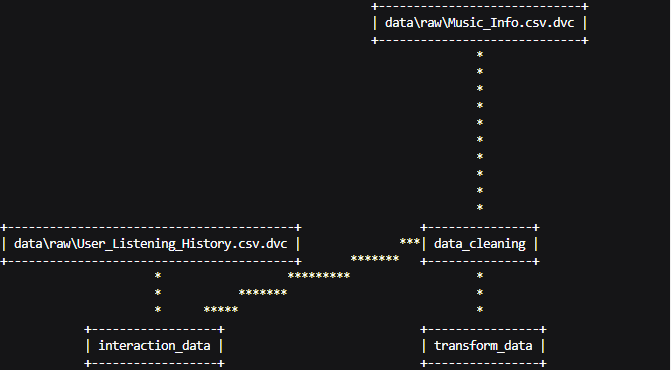
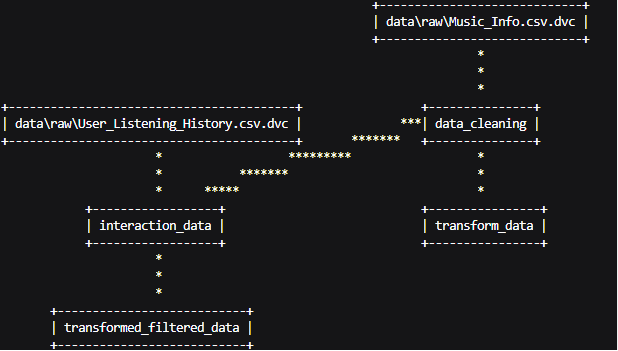
Updated README

diff --git a/README.md b/README.md
@@ -4,13 +4,15 @@
   <img src="https://img.shields.io/badge/scikit--learn-1.8-F7931E?style=for-the-badge&logo=scikitlearn&logoColor=white" />
   <img src="https://img.shields.io/badge/DVC-3.67-945DD6?style=for-the-badge&logo=dvc&logoColor=white" />
   <img src="https://img.shields.io/badge/Dask-Parallel-FDA061?style=for-the-badge&logo=dask&logoColor=white" />
-  <img src="https://img.shields.io/badge/AWS-Deployment-FF9900?style=for-the-badge&logo=amazonaws&logoColor=white" />
+  <img src="https://img.shields.io/badge/Docker-Container-2496ED?style=for-the-badge&logo=docker&logoColor=white" />
+  <img src="https://img.shields.io/badge/GitHub_Actions-CI/CD-2088FF?style=for-the-badge&logo=githubactions&logoColor=white" />
+  <img src="https://img.shields.io/badge/AWS_ECR-Deployment-FF9900?style=for-the-badge&logo=amazonaws&logoColor=white" />
 </p>
 
 <h1 align="center">🎵 Hybrid Music Recommendation System</h1>
 
 <p align="center">
-  <b>An end-to-end, production-grade music recommendation engine combining Content-Based Filtering, Collaborative Filtering — built on ~50K songs and ~9.7M user interaction records.</b>
+  <b>An end-to-end, production-grade music recommendation engine combining Content-Based Filtering, Collaborative Filtering, and a Hybrid Recommender — built on ~50K songs and ~9.7M user interaction records, containerized with Docker, and deployed via CI/CD to AWS ECR.</b>
 </p>
 
 <p align="center">
@@ -19,6 +21,8 @@
   <a href="#-tech-stack">Tech Stack</a> •
   <a href="#-project-structure">Project Structure</a> •
   <a href="#-dvc-pipeline">DVC Pipeline</a> •
+  <a href="#-cicd-pipeline">CI/CD Pipeline</a> •
+  <a href="#-docker">Docker</a> •
   <a href="#-getting-started">Getting Started</a> •
   <a href="#-roadmap">Roadmap</a>
 </p>
@@ -33,41 +37,38 @@
                               │   (app.py – cached)   │
                               └──────────┬────────────┘
                                          │
-                          ┌──────────────┴──────────────┐
-                          ▼                              ▼
-               ┌──────────────────┐          ┌──────────────────────┐
-               │  Content-Based   │          │    Collaborative     │
-               │    Filtering     │          │      Filtering       │
-               │ (NearestNeighbors│          │  (Cosine Similarity  │
-               │  + Cosine Metric)│          │  on Sparse Matrices) │
-               └────────┬─────────┘          └─────────┬────────────┘
-                        │                              │
-                        ▼                              ▼
-               ┌──────────────────┐          ┌──────────────────────┐
-               │  ColumnTransformer│         │   Dask DataFrame     │
-               │  • CountEncoder  │          │   Chunked Processing │
-               │  • OneHotEncoder │          │   of 9.7M rows       │
-               │  • TF-IDF        │          │         │             │
-               │  • StandardScaler│          │         ▼             │
-               │  • MinMaxScaler  │          │  Sparse Interaction  │
-               └────────┬─────────┘          │  Matrix (CSR)        │
-                        │                    └──────────────────────┘
-                        ▼
-               ┌──────────────────┐
-               │  Transformed     │
-               │  Sparse Matrix   │
-               │  (.npz)          │
-               └──────────────────┘
+                      ┌──────────────────┼──────────────────┐
+                      ▼                  ▼                  ▼
+           ┌──────────────────┐ ┌──────────────────┐ ┌──────────────────┐
+           │  Content-Based   │ │   Collaborative  │ │     Hybrid       │
+           │    Filtering     │ │     Filtering    │ │   Recommender    │
+           │ (NearestNeighbors│ │ Cosine Similarity│ │ (Weighted Sum of │
+           │  + Cosine Metric)│ │ on Sparse Matrix)│ │  CBF + CF Scores)│
+           └────────┬─────────┘ └───────┬──────────┘ └────────┬─────────┘
+                    │                   │                     │
+                    ▼                   ▼                     ▼
+           ┌──────────────────┐ ┌──────────────────┐ ┌───────────────────────┐
+           │ ColumnTransformer│ │  Dask DataFrame  │ │ Normalized CBF +      │
+           │ • CountEncoder   │ │Chunked Processing│ │ CF similarity scores  │
+           │ • OneHotEncoder  │ │  of 9.7M rows    │ │ with user-controlled  │
+           │ • TF-IDF         │ │        │         │ │ diversity weight      │
+           │ • StandardScaler │ │        ▼         │ └───────────────────────┘
+           │ • MinMaxScaler   │ │Sparse Interaction│
+           └────────┬─────────┘ │Matrix (CSR)      │
+                    │           └──────────────────┘
+                    ▼
+           ┌──────────────────┐
+           │  Transformed     │
+           │  Sparse Matrix   │
+           │  (.npz)          │
+           └──────────────────┘
+
+  ┌──────────────────────────────────────────────────────────────┐
+  │                    CI/CD Pipeline                            │
+  │  GitHub Actions → Test → Docker Build → Push to AWS ECR      │
+  └──────────────────────────────────────────────────────────────┘
 ```
 
-The system follows a **two-phase design**:
-
-| Phase | Approach | Status |
-|-------|----------|--------|
-| **Phase 1** | Content-Based + Collaborative Filtering → Hybrid (weighted sum) | 🔨 In Progress |
-| **Phase 2** | Neural Collaborative Filtering (NCF) | 📋 Planned |
-
----
 
 ## ✨ Features
 
@@ -75,21 +76,20 @@ The system follows a **two-phase design**:
 - **Exploratory Data Analysis** — Deep analysis of the Spotify dataset with rich visualizations (distributions, correlations, feature exploration)
 - **Content-Based Filtering** — Recommends songs based on audio features, artist, tags, and metadata using a K-Nearest Neighbors model with cosine distance
 - **Collaborative Filtering** — Recommends songs based on user listening patterns using cosine similarity on a user-track interaction matrix
-- **Streamlit Web App** — Interactive UI with song & artist input, selectable filtering method, configurable number of recommendations (5/10/15/20), and embedded Spotify audio previews
+- **Hybrid Recommender System** — Combines content-based and collaborative filtering scores using a weighted sum approach with min-max normalized similarity scores
+- **Cold-Start Handling** — Automatically Fallback to Content-Based Filtering for new songs with no interaction history
+- **Diversity Slider** — Interactive UI slider (1–10) that lets users control the balance between content-based and collaborative filtering in the hybrid recommender — lower values favor content similarity, higher values favor collaborative (user behavior) similarity
+- **Case-Insensitive Input** — Song and artist names are consistently normalized (stripped & lowercased) across all filtering methods, ensuring robust lookups regardless of input casing
+- **Streamlit Web App** — Interactive UI with song & artist input, selectable filtering method (Content-Based / Collaborative / Hybrid), configurable number of recommendations (5/10/15/20), diversity control, and embedded Spotify audio previews
 - **Efficient Caching** — `@st.cache_data` and `@st.cache_resource` decorators to eliminate redundant data loading across Streamlit reruns
 - **Large-Scale Data Processing** — Dask-based chunked processing of the 9.7M-row `User_Listening_History.csv` (~575 MB) to handle memory constraints
 - **Sparse Matrix Representations** — Interaction matrices and transformed feature matrices stored as `scipy.sparse` CSR matrices for memory-efficient computation
-- **DVC Pipeline** — Reproducible, versioned 3-stage ML pipeline with full dependency tracking
+- **DVC Pipeline** — Reproducible, versioned **4-stage** ML pipeline with full dependency tracking
+- **Remote DVC Storage** — DVC data tracked and stored on **AWS S3** for remote team collaboration
 - **Data Version Control** — Raw datasets (`Music_Info.csv`, `User_Listening_History.csv`) tracked via `.dvc` files, with data git-ignored
-
-### Upcoming
-- **Hybrid Recommender** — Weighted combination of content-based and collaborative scores
-- **Cold-Start Handling** — Fallback strategy for new users/songs with no interaction history
-- **CI/CD Pipeline** — Automated testing and deployment
-- **Dockerization** — Containerized application for consistent environments
-- **Remote DVC Storage** — S3-backed data versioning for team collaboration
-- **AWS Deployment** — Blue-Green deployment strategy for zero-downtime releases
-- **Neural Collaborative Filtering (Phase 2)** — Deep learning–based recommendation using learned embeddings
+- **Dockerization** — Fully containerized application using a Python 3.13.5 base image, exposing port 8000 for consistent deployment across environments
+- **CI/CD Pipeline** — GitHub Actions workflow with a CI job (code checkout, dependency install, DVC pull, app launch, pytest) and a CD job (Docker build & push to AWS ECR)
+- **Automated Testing** — Pytest-based smoke test (`tests/test_app.py`) that validates the Streamlit app loads successfully (HTTP 200)
 
 ---
 
@@ -97,16 +97,19 @@ The system follows a **two-phase design**:
 
 | Category | Technologies |
 |----------|-------------|
-| **Language** | Python 3.10+ |
+| **Language** | Python 3.13.5 |
 | **ML / Data Science** | scikit-learn, SciPy, NumPy, Pandas, category_encoders |
 | **Large-Scale Processing** | Dask (parallel DataFrame operations for 9.7M rows) |
 | **Feature Engineering** | TF-IDF Vectorizer, OneHotEncoder, CountEncoder, StandardScaler, MinMaxScaler |
 | **Similarity / Model** | NearestNeighbors (brute-force cosine), Cosine Similarity |
 | **Visualization** | Matplotlib, Seaborn (EDA notebooks) |
 | **Web App** | Streamlit |
-| **Pipeline & Versioning** | DVC (Data Version Control) |
+| **Pipeline & Versioning** | DVC (Data Version Control) with AWS S3 remote storage |
+| **Containerization** | Docker (Python 3.13.5 base image) |
+| **CI/CD** | GitHub Actions (CI: test suite, CD: Docker build → AWS ECR push) |
+| **Cloud** | AWS (S3 for DVC storage, ECR for container registry) |
+| **Testing** | Pytest, Requests |
 | **Serialization** | Joblib (models & transformers), SciPy npz (sparse matrices), NumPy npy (arrays) |
-| **Planned** | Docker, GitHub Actions (CI/CD), AWS (EC2/ECS, S3), Neural Collaborative Filtering |
 
 ---
 
@@ -121,7 +124,16 @@ hybrid-recommender-system/
 │   ├── __init__.py
 │   ├── data_cleaning.py              # Raw data cleaning → cleaned_music_data.csv
 │   ├── content_based_filtering.py    # ColumnTransformer training, NearestNeighbors model
-│   └── collaborative_filtering.py    # Dask-based interaction matrix, cosine similarity CF
+│   ├── collaborative_filtering.py    # Dask-based interaction matrix, cosine similarity CF
+│   ├── hybrid_recommendation.py      # Hybrid recommender — weighted CBF + CF scores
+│   └── transform_filtered_data.py    # Transforms filtered collaborative data for hybrid recommender
+│
+├── tests/
+│   └── test_app.py                   # Smoke test — validates Streamlit app loads (HTTP 200)
+│
+├── .github/
+│   └── workflows/
+│       └── ci.yaml                   # CI/CD pipeline (GitHub Actions → AWS ECR)
 │
 ├── notebook/
 │   ├── EDA_Spotify_Dataset.ipynb             # Exploratory Data Analysis
@@ -139,18 +151,23 @@ hybrid-recommender-system/
 │       ├── transformed_data.npz        # Sparse feature matrix for CBF (4.5 MB)
 │       ├── collab_filtered_data.csv    # Songs filtered to those in user history (8.3 MB)
 │       ├── interaction_matrix.npz      # Sparse user-track interaction matrix (32.3 MB)
-│       └── track_ids.npy               # Ordered track ID array for CF (640 KB)
+│       ├── track_ids.npy               # Ordered track ID array for CF (640 KB)
+│       └── transformed_hybrid_data.npz # Sparse feature matrix for hybrid recommender (2.7 MB)
 │
 ├── models/
 │   └── nearest_neighbor_cbf.joblib     # Trained NearestNeighbors model (11.1 MB)
 │
-├── transformer.joblib                  # Trained ColumnTransformer (135 KB)
+├── assets/
+│   └── pipeline.png                    # DVC pipeline visualization
 │
-├── dvc.yaml                            # DVC pipeline definition (3 stages)
+├── Dockerfile                          # Container definition (Python 3.13.5, port 8000)
+├── transformer.joblib                  # Trained ColumnTransformer (135 KB)
+├── dvc.yaml                            # DVC pipeline definition (4 stages)
 ├── dvc.lock                            # Locked pipeline state with hashes
 ├── .dvcignore                          # DVC ignore patterns
 ├── .gitignore                          # Git ignore (data, models, artifacts)
-├── requirements.txt                    # Pinned Python dependencies
+├── requirements.txt                    # Production Python dependencies
+├── requirements-dev.txt                # Development Python dependencies (includes DVC, pytest, etc.)
 └── README.md                           # ← You are here
 ```
 
@@ -158,9 +175,9 @@ hybrid-recommender-system/
 
 ## 🔄 DVC Pipeline
 
-The ML pipeline is managed by DVC with **3 stages** and full dependency tracking:
+The ML pipeline is managed by DVC with **4 stages** and full dependency tracking:
 
-![Alt text](assets/pipeline.png)
+![DVC Pipeline Visualization](assets/pipeline.png)
 
 Reproduce the entire pipeline with:
 ```bash
@@ -181,13 +198,72 @@ dvc repro
    - **Standard Scaling** on `duration_ms`, `loudness`, `tempo`
    - **Min-Max Scaling** on `danceability`, `energy`, `speechiness`, `acousticness`, `instrumentalness`, `liveness`, `valence`
 3. **Model Training** — A `NearestNeighbors` model with cosine distance (`algorithm='brute'`) is fitted on the sparse transformed matrix
-4. **Recommendation** — Given a (song, artist) pair, the model finds the K+1(which includes the current song) nearest neighbors and returns the top-K similar songs
+4. **Recommendation** — Given a (song, artist) pair, the model finds the K+1 (which includes the current song) nearest neighbors and returns the top-K similar songs
 
 ### Collaborative Filtering
 
 1. **Large-Scale Ingestion** — The 9.7M-row `User_Listening_History.csv` (~575 MB) is loaded using **Dask DataFrames** for memory-efficient, chunk-based parallel processing
 2. **Interaction Matrix** — User-track interactions (play counts) are aggregated and stored as a `scipy.sparse.csr_matrix` for memory efficiency
 3. **Recommendation** — Given a song, its interaction vector is compared against all other tracks using cosine similarity, and the top-K most similar tracks are returned
+
+### Hybrid Recommender System
+
+1. **Score Computation** — For a given (song, artist) pair, both content-based similarity scores (cosine similarity on the transformed feature matrix) and collaborative filtering similarity scores (cosine similarity on the interaction matrix) are computed independently
+2. **Min-Max Normalization** — Both score vectors are normalized to [0, 1] range to ensure fair comparison regardless of their original scales
+3. **Weighted Combination** — The final score is computed as: `hybrid_score = w_cbf × content_score + w_cf × collaborative_score`, where the weights are controlled by the user via the **Diversity Slider** in the UI
+4. **Diversity Control** — The slider ranges from 1 (favor content similarity — songs with similar audio features) to 10 (favor collaborative similarity — songs that users with similar taste also listen to)
+5. **Recommendation** — The top-K songs with the highest hybrid scores are returned, ordered by relevance
+
+---
+
+## 🚀 CI/CD Pipeline
+
+The project uses **GitHub Actions** with a two-job workflow:
+
+### CI (Continuous Integration)
+1. **Code Checkout** — Pulls the latest code from the `master` branch
+2. **Python Setup** — Configures Python 3.13.5 with pip caching
+3. **Dependency Installation** — Installs all development dependencies from `requirements-dev.txt`
+4. **AWS Credentials** — Configures AWS credentials (via GitHub Secrets) for DVC S3 access
+5. **DVC Pull** — Pulls data and model artifacts from the remote S3 storage
+6. **App Launch** — Starts the Streamlit app in the background on port 8000
+7. **Test Execution** — Runs `pytest tests/test_app.py` to validate the app loads (HTTP 200)
+8. **Cleanup** — Stops the Streamlit process
+
+### CD (Continuous Deployment)
+1. **DVC Pull** — Pulls the latest data artifacts from S3
+2. **ECR Login** — Authenticates with AWS Elastic Container Registry
+3. **Docker Build & Push** — Builds the Docker image and pushes it to AWS ECR with the `latest` tag
+
+The CD job runs **only after CI passes**, ensuring only tested code is deployed.
+
+---
+
+## 🐳 Docker
+
+The application is fully containerized for consistent deployment:
+
+```dockerfile
+FROM python:3.13.5
+WORKDIR /app/
+COPY requirements.txt .
+RUN pip install --no-cache-dir -r requirements.txt
+# Copies models, processed data, source code, and app entrypoint
+EXPOSE 8000
+CMD ["streamlit", "run", "app.py", "--server.port", "8000"]
+```
+
+### Run Locally with Docker
+
+```bash
+# Build the image
+docker build -t hybrid-recommender .
+
+# Run the container
+docker run -p 8000:8000 hybrid-recommender
+```
+
+Then open `http://localhost:8000` in your browser.
 
 ---
 
@@ -215,7 +291,7 @@ source venv/bin/activate
 # 3. Install dependencies
 pip install -r requirements.txt
 
-# 4. Pull data with DVC (currently local storage — S3 remote coming soon)
+# 4. Pull data with DVC (uses AWS S3 remote storage)
 dvc pull
 
 # 5. Reproduce the pipeline (optional — run if data/models are stale)
@@ -229,9 +305,12 @@ streamlit run app.py
 
 1. Open the Streamlit app in your browser (default: `http://localhost:8501`)
 2. Enter a **song name** and **artist name**
-3. Select the filtering method: **Content-Based** or **Collaborative**
+3. Select the filtering method: **Content-Based**, **Collaborative**, or **Hybrid Recommender System**
 4. Choose how many recommendations you want (5 / 10 / 15 / 20)
-5. Click **Get Recommendation** — enjoy the results with embedded Spotify audio previews 🎧
+5. Adjust the **Diversity Slider** (available for Collaborative & Hybrid modes) to control the recommendation balance
+6. Click **Get Recommendation** — enjoy the results with embedded Spotify audio previews 🎧
+
+> **Note:** If a song only exists in the content-based dataset (not in user listening history), only Content-Based Filtering will be available. Collaborative and Hybrid modes require the song to be present in the user interaction data.
 
 ---
 
@@ -252,28 +331,24 @@ streamlit run app.py
 
 ## 🗺 Roadmap
 
-### Phase 1 — Classical ML (In Progress)
+### Phase 1 — Classical ML ✅
 
 - [x] Exploratory Data Analysis with visualizations
 - [x] Data cleaning & preprocessing pipeline
 - [x] Content-Based Filtering (NearestNeighbors + cosine distance)
 - [x] Collaborative Filtering (cosine similarity on interaction matrix)
+- [x] Hybrid Recommender (weighted sum of normalized CBF + CF scores)
+- [x] Diversity Slider for user-controlled recommendation balance
+- [x] Case-insensitive input handling across all filtering methods
 - [x] Dask integration for large-scale user history processing
 - [x] Streamlit UI with audio previews & caching
-- [x] DVC pipeline with 3 reproducible stages
-- [x] DVC data tracking (local storage)
-- [ ] Hybrid Recommender (weighted sum of CBF + CF scores)
-- [ ] Cold-Start problem handling
-- [ ] CI/CD pipeline (GitHub Actions)
-- [ ] Dockerization
-- [ ] Remote DVC storage (AWS S3)
-- [ ] AWS deployment (Blue-Green strategy)
+- [x] DVC pipeline with 4 reproducible stages
+- [x] DVC data tracking with remote S3 storage
+- [x] Dockerization (Python 3.13.5 container, port 8000)
+- [x] CI/CD pipeline (GitHub Actions → pytest → Docker build → AWS ECR)
+- [x] Automated smoke testing (pytest + requests)
+- [x] Cold-Start problem handling
 
-### Phase 2 — Deep Learning (Planned)
-
-- [ ] Neural Collaborative Filtering (NCF) with learned user/item embeddings
-- [ ] Model comparison & A/B testing framework
-- [ ] Performance benchmarking (NCF vs. classical approaches)
 
 ---
 
@@ -282,15 +357,31 @@ streamlit run app.py
 | Decision | Rationale |
 |----------|-----------|
 | **Dask over Pandas** for user history | The 9.7M-row dataset (~575 MB) exceeds comfortable in-memory processing; Dask enables chunked, parallel computation without loading everything into RAM |
-| **Sparse matrices (CSR)** | Both the interaction matrix and transformed feature matrix are highly sparse; CSR format reduces memory from GBs to MBs |
+| **Sparse matrices (CSR)** | Both the interaction matrix and transformed feature matrices are highly sparse; CSR format reduces memory from GBs to MBs |
 | **NearestNeighbors with brute-force** | With ~50K songs, brute-force cosine search is fast enough and avoids approximation errors from tree-based methods |
 | **ColumnTransformer pipeline** | Cleanly applies heterogeneous transformations (encoding, scaling, vectorization) in a single, reproducible step |
 | **TF-IDF on tags** (`max_features=85`) | Captures the most informative tag terms while keeping dimensionality manageable |
+| **Min-Max Normalization** for hybrid scores | Content-based and collaborative similarity scores operate on different scales; normalization ensures fair weighting |
+| **User-controlled diversity weight** | Different users value content similarity vs. crowd wisdom differently; the slider empowers personalization without retraining |
 | **Streamlit caching** | `@st.cache_data` for DataFrames/arrays, `@st.cache_resource` for the ML model — eliminates redundant I/O on every UI rerun |
-| **DVC pipeline** | Ensures reproducibility and tracks data/model lineage; will extend to S3 remote for team collaboration |
-| **Blue-Green Deployment** (planned) | Zero-downtime deployments on AWS with instant rollback capability |
+| **DVC pipeline (4 stages)** | Ensures reproducibility and tracks data/model lineage; extended to S3 remote for team collaboration |
+| **Separate `requirements-dev.txt`** | Keeps production dependencies lean while providing full tooling (DVC, pytest, etc.) for development and CI |
+| **Docker containerization** | Ensures consistent runtime environment across dev, CI, and production; eliminates "works on my machine" issues |
+| **CI/CD with GitHub Actions** | Automated testing gates prevent broken code from reaching production; CD pushes verified images to ECR for deployment |
+| **Blue-Green Deployment** (planned) | Zero-downtime deployments on AWS ECS with instant rollback capability |
 
 ---
+
+## 🧪 Testing
+
+The project includes automated smoke tests to validate application health:
+
+```bash
+# Run tests locally (ensure the Streamlit app is running on port 8000)
+streamlit run app.py --server.port 8000 &
+python -m pytest tests/test_app.py -v
+```
+
 
 ## 🧪 Notebooks
 
